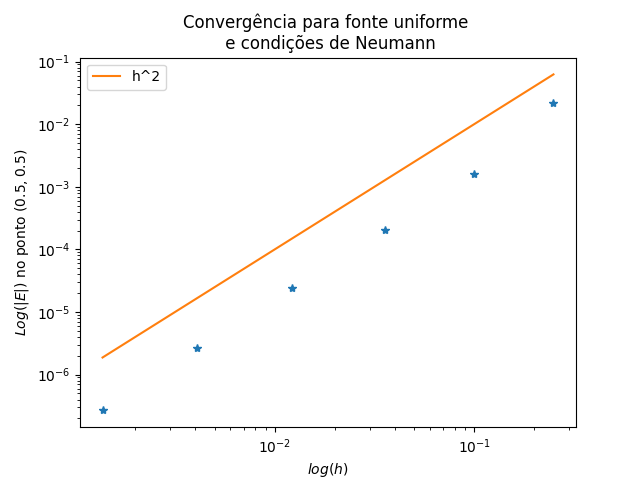
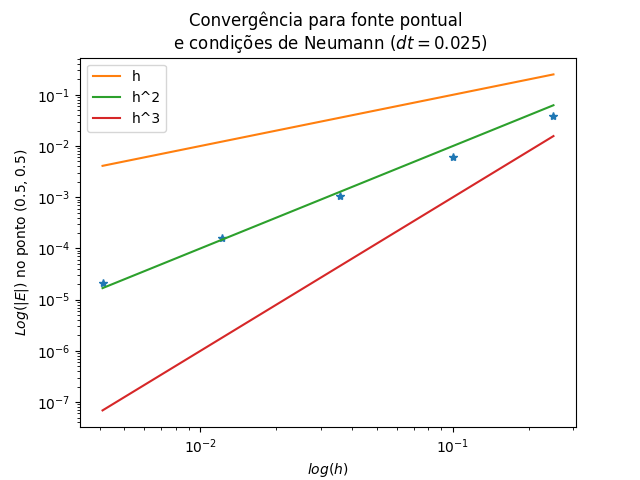
finished

diff --git a/Optimized/heat.py b/Optimized/heat.py
@@ -18,111 +18,25 @@ def heat_source_uniform(x,y):
 def g(t):
     return 2.0 if t < 0.25 else 0.0
 
-def heat_equation_uniform(nx, ny, Lx, Ly, time):
-    
-    Ix = eye(nx)
-    Iy = eye(ny)
-    Dx = kron(Iy, laplacian(nx))
-    Dy = kron(laplacian(ny), Ix)
-
-    dx, dy = Lx / (nx+1), Ly / (ny+1)  # Control volume 
-    alpha = 1.0
-    dt = 0.25 * min(dx**2, dy**2) / alpha  # Time step size (CFL condition)
-    T = time
-    Nt = int(T / dt)  # Number of time steps
-    A = eye(nx * ny) - dt * (Dx + Dy)
-
-    x = np.linspace(0, Lx, nx + 2)
-    y = np.linspace(0, Ly, ny + 2)
-    X, Y = np.meshgrid(x, y)
-    S = heat_source_uniform(X, Y)
-    S = S[1:-1, 1:-1].flatten()
-    Q = np.zeros((nx+2,ny+2))
-    q_new = np.zeros_like(Q)
-
-    for i in range(Nt):
-        q_flat = Q[1:-1, 1:-1].flatten()
-        # Solve for the new time step
-        q_flat_new = la.spsolve(A, q_flat + dt * S)
-        
-        # Reshape back to 2D array
-        q_new[1:-1, 1:-1] = q_flat_new.reshape((nx, ny))
-
-        # Apply Neumann boundary conditions (zero gradient)
-        q_new[0, :] = q_new[1, :]         # Bottom boundary
-        q_new[-1, :] = q_new[-2, :]       # Top boundary
-        q_new[:, 0] = q_new[:, 1]         # Left boundary
-        q_new[:, -1] = q_new[:, -2]       # Right boundary
-        
-        # Update q
-        Q[:, :] = q_new[:, :]
-    return X, Y, Q
-def heat_equation_delta(nx, ny, Lx, Ly, time):
-    
-    Ix = eye(nx)
-    Iy = eye(ny)
-    Dx = kron(Iy, laplacian(nx))
-    Dy = kron(laplacian(ny), Ix)
-
-    dx, dy = Lx / (nx+1), Ly / (ny+1)  # Control volume 
-    alpha = 1.0
-    dt = 0.25 * min(dx**2, dy**2) / alpha  # Time step size (CFL condition)
-    T = time
-    Nt = int(T / dt)  # Number of time steps
-    A = eye(nx * ny) - dt * (Dx + Dy)
-    xs, ys = 0.5, 0.5
-    i_s = int(xs / dx) + 1
-    j_s = int(ys / dy) + 1
-
-    x = np.linspace(0, Lx, nx + 2)
-    y = np.linspace(0, Ly, ny + 2)
-    X, Y = np.meshgrid(x, y)
-    Q = np.zeros((nx+2,ny+2))
-    q_new = np.zeros_like(Q)
-
-    for i in range(Nt):
-        q_flat = Q[1:-1, 1:-1].flatten()
-
-        S = np.zeros_like(q_flat)
-        t = i*dt
-        if t < 0.25:
-            index = (i_s - 1) * nx + (j_s - 1)
-            S[index] = g(t)
-        # Solve for the new time step
-        q_flat_new = la.spsolve(A, q_flat + dt * S)
-        
-        # Reshape back to 2D array
-        q_new[1:-1, 1:-1] = q_flat_new.reshape((nx, ny))
-
-        # Apply Neumann boundary conditions (zero gradient)
-        q_new[0, :] = q_new[1, :]         # Bottom boundary
-        q_new[-1, :] = q_new[-2, :]       # Top boundary
-        q_new[:, 0] = q_new[:, 1]         # Left boundary
-        q_new[:, -1] = q_new[:, -2]       # Right boundary
-        
-        # Update q
-        Q[:, :] = q_new[:, :]
-    return X, Y, Q
-
-
 def laplacian_Dirichlet(n, d, k):
     main_diag = -2 * np.ones(n) 
     main_diag[0] = -d**2/k
     main_diag[-1] = -d**2/k
     lower_diag =  np.ones(n-1)  
     upper_diag =  np.ones(n-1)  
-    upper_diag[0] = 0
-    lower_diag[-1] = 0
+    upper_diag[0] = 0.0
+    lower_diag[-1] = 0.0
+
     return diags([lower_diag, main_diag, upper_diag], [-1, 0, 1],shape=(n,n))/d**2
 
-def heat_equation_heterogeneous(nx, ny, Lx, Ly, time):
+def heat_equation_heterogeneous(nx, ny, Lx, Ly, time, dt):
     
     Ix = eye(nx+2)
     Iy = eye(ny+2)
    
     dx, dy = Lx / (nx+1), Ly / (ny+1)  # Control volume 
     alpha = 1.0
-    dt = 0.25 * min(dx**2, dy**2) / alpha  # Time step size (CFL condition)
+    # dt = 0.25 * min(dx**2, dy**2) / alpha  # Time step size (CFL condition)
     T = time
     Nt = int(T / dt)  # Number of time steps
 
@@ -131,59 +45,55 @@ def heat_equation_heterogeneous(nx, ny, Lx, Ly, time):
     
     Dx = kron(Iy, Laplacian_x)
     Dy = kron(Laplacian_y, Ix)
-    Ax = eye((nx+2)* (ny+2)) - dt * Dx
-    Ay = eye((nx+2)* (ny+2)) - dt * Dy
+    Ax = eye((nx+2)* (ny+2)) -  dt * Dx
+    Ay = eye((nx+2)* (ny+2)) -  dt * Dy
+    # A = eye((nx+2)* (ny+2)) - dt * (Dx + Dy)
   
     x = np.linspace(0, Lx, nx + 2)
     y = np.linspace(0, Ly, ny + 2)
     X, Y = np.meshgrid(x, y)
     S = heat_source_uniform(X, Y)
-    S[0, :] = 0
-    S[-1, :] = 0
-    S[:, 0] = 0
-    S[:, -1] = 0
     S = S.flatten()
-    
-    Q = np.zeros((nx+2,ny+2))
-    q_new = np.zeros_like(Q)
-
+    Q = np.zeros((nx+2)*(ny+2))
+    print(Nt)
+    Q[0::nx+2]  = - 1                                          # Right boundary
+    Q[nx+1::nx+2] = - 1                                        # Left boundary
+    Q[:nx+2]  = 1./ np.pi * np.sin(np.pi * x)                  # Bottom boundary
+    Q[-(nx+2):]  = 1./ (3 * np.pi) * np.sin(3 * np.pi * x) + 1 # Top boundary
     for i in range(Nt):
         
-        Q[0, :]  = -2                                           # Right boundary
-        Q[-1, :] = -2                                           # Left boundary
-        Q[:, 0]  = 1./ np.pi * np.sin(np.pi * x)                # Bottom boundary
-        Q[:, -1] = 1./ (3 * np.pi) * np.sin(3 * np.pi * x) + 2  # Top boundary
-
-        q_flat = Q.flatten()
-        
+        Q[0::nx+2]  = - 2                                          # Right boundary
+        Q[nx+1::nx+2] = - 2                                        # Left boundary
+        Q[:nx+2]  = 1./ np.pi * np.sin(np.pi * x)                  # Bottom boundary
+        Q[-(nx+2):]  = 1./ (3 * np.pi) * np.sin(3 * np.pi * x) + 2 # Top boundary
+        # Q = la.spsolve(A, Q +  dt * S )
         # Solve for the new time step
-        q_flat_new_aux = la.spsolve(Ax, q_flat + dt * S)
-        q_flat_new = la.spsolve(Ay, q_flat_new_aux + dt * S)
-        q_new = q_flat_new.reshape((nx+2, ny+2))
-        
-        Q[:, :] = q_new[:, :]
+        q_flat_new_aux = la.spsolve(Ax, Q + 0.5 * dt * S)
+        q_flat_new = la.spsolve(Ay, q_flat_new_aux + 0.5 * dt * S)
+
+        Q = q_flat_new
+
+    Q = Q.reshape((nx+2, ny+2))
     return X, Y, Q
 
 def laplacian_Neumann(n, d, dt):
     main_diag = -2 * np.ones(n) 
-    main_diag[0] =  - (2) *d**2/ dt # - d**2/ dt
-    main_diag[-1] = - (2) *d**2/ dt  #- d**2/ dt
+    main_diag[0] =  - 2.
+    main_diag[-1] = - 2. 
     lower_diag =  np.ones(n-1)  
     upper_diag =  np.ones(n-1)  
-    upper_diag[0] =  2 *d**2/ dt  #- d**2/ dt
-    lower_diag[-1] =  2 *d**2/ dt #- d**2/ dt
+    upper_diag[0] =  2.  
+    lower_diag[-1] =  2. 
     return diags([lower_diag, main_diag, upper_diag], [-1, 0, 1], shape=(n,n))/d**2
 
-def heat_equation_uniformNeumann(nx, ny, Lx, Ly, time):
+def heat_equation_uniformNeumann(nx, ny, Lx, Ly, time, dt):
     
     Ix = eye(nx+2)
     Iy = eye(ny+2)
    
     dx, dy = Lx / (nx+1), Ly / (ny+1)  # Control volume 
-    alpha = 1.0
-    dt = 0.25 * min(dx**2, dy**2) / alpha  # Time step size (CFL condition)
-    T = time
-    Nt = int(T / dt)  # Number of time steps
+
+    Nt = int(time / dt)  # Number of time steps
 
     Laplacian_x = laplacian_Neumann(nx + 2, dx, dt)
     Laplacian_y = laplacian_Neumann(ny + 2, dy, dt)
@@ -195,38 +105,36 @@ def heat_equation_uniformNeumann(nx, ny, Lx, Ly, time):
     Ax = eye((nx+2)* (ny+2)) - dt * Dx
     Ay = eye((nx+2)* (ny+2)) - dt * Dy
     A = eye((nx+2)* (ny+2)) - dt * (Dx + Dy)
-    
+    # print(eye((nx+2)* (ny+2)).toarray())
     x = np.linspace(0, Lx, nx + 2)
     y = np.linspace(0, Ly, ny + 2)
     X, Y = np.meshgrid(x, y)
     S = heat_source_uniform(X, Y)
-
+    
     S = S.flatten()    
     Q = np.zeros((nx+2)*(ny+2))
-    
-    for i in range(Nt):     
-        
-        # Solve for the new time step
-        # Fixed cell 
-        # Q[0] = 0.0   
 
+    print(dt, time, Nt)
+    for i in range(Nt):     
+        # Solve for the new time step
+        
         ### Using a coupled laplacian      
-        # Q_new = la.spsolve(A, Q + dt * S)
-        # Q = Q_new
+        Q = la.spsolve(A, Q + dt * S)
         ### Uncoupled Laplacian 
-        q_new_aux = la.spsolve(Ax, Q + dt / 2 * S)
-        Q = la.spsolve(Ay, q_new_aux + dt / 2 * S)
+        # q_new_aux = la.spsolve(Ax, Q + dt / 2 * S)
+        # Q = la.spsolve(Ay, q_new_aux + dt / 2 * S)
 
     Q = Q.reshape((nx+2, ny+2))
     return X, Y, Q
-def heat_equation_deltaNeumann(nx, ny, Lx, Ly, time):
+def heat_equation_deltaNeumann(nx, ny, Lx, Ly, time, dt):
     
     Ix = eye(nx+2)
     Iy = eye(ny+2)
    
     dx, dy = Lx / (nx+1), Ly / (ny+1)  # Control volume 
     alpha = 1.0
-    dt = 0.25 * min(dx**2, dy**2) / alpha  # Time step size (CFL condition)
+    # dt = 0.25 * min(dx**2, dy**2) / alpha  # Time step size 
+   
     T = time
     Nt = int(T / dt)  # Number of time steps
 
@@ -251,7 +159,7 @@ def heat_equation_deltaNeumann(nx, ny, Lx, Ly, time):
     xs, ys = 0.5, 0.5
     i_s = int(xs / dx) + 1
     j_s = int(ys / dy) + 1
-
+    
     for i in range(Nt):     
         
         # Solve for the new time step
@@ -264,53 +172,93 @@ def heat_equation_deltaNeumann(nx, ny, Lx, Ly, time):
             S[index] = g(t)
 
         ### Using a coupled laplacian      
-        # Q = la.spsolve(A, Q + dt * S)
+        Q = la.spsolve(A, Q + dt * S)
       
         # Q = Q_new
         ### Uncoupled Laplacian     
-        q_new_aux = la.spsolve(Ax, Q + dt / 2.0 * S)
-        S = np.zeros_like(Q)
-        t = i * dt
-        if t < 0.25:
-            index = (i_s - 1) * nx + (j_s - 1)
-            S[index] = g(t)
-        Q = la.spsolve(Ay, q_new_aux + dt / 2.0 * S)
+        # q_new_aux = la.spsolve(Ax, Q + dt / 2.0 * S)
+        # S = np.zeros_like(Q)
+        # t = i * dt
+        # if t < 0.25:
+        #     index = (i_s - 1) * nx + (j_s - 1)
+        #     S[index] = g(t)
+        # Q = la.spsolve(Ay, q_new_aux + dt / 2.0 * S)
         
     Q = Q.reshape((nx+2, ny+2))
     return X, Y, Q
 
 def spatialError(max_power, time_iterations, func):
-  n = 3**max_power
-  m = math.ceil(n/2)
-  total_time = 0.25*(1/(n+1))**2*time_iterations
-  X, Y, Q = func(n,n, 1.0, 1.0, total_time)
-  # print(Q[m, m], X[m, m])
-  refValue = Q[m, m]
-  erro = []
-  h = []
-  for i in range(1,max_power):
-    n = 3**i
+    # dt = 1./40.
+    dt = 5e-1
+    n = 3**max_power
     m = math.ceil(n/2)
-    h.append(1/(n+1))
-    total_time = 0.25*(1/(n+1))**2*time_iterations
-    X, Y, Q = func(n,n, 1.0, 1.0, total_time)
-    erro.append(np.abs(Q[m,m] - refValue))
-  return h, erro
+    total_time = dt*time_iterations
+    X, Y, Q = func(n, n, 1.0, 1.0, total_time, dt)
+    fig = plt.figure()
+    ax = fig.add_subplot(projection='3d')
+    ax.plot_surface(X,Y,Q)
+    plt.show()
+
+    # print(Q[m, m], X[m, m])
+    refValue = Q[m, m]
+    erro = []
+    h = []
+    for i in range(1,max_power):
+        n = 3**i
+        m = math.ceil(n/2)
+        h.append(1/(n+1))
+        # total_time = 0.25*(1/(n+1))**2*time_iterations
+        X, Y, Q = func(n,n, 1.0, 1.0, total_time, dt)
+        erro.append(np.abs(Q[m,m] - refValue))
+    return h, erro
+def temporalError(max_power, total_time, func):
+    dt_min = np.power(5., -max_power)
+    n = 18
+    m = math.ceil(n/2)
+    # total_time = dt*time_iterations
+    X, Y, Q = func(n, n, 1.0, 1.0, total_time, dt_min)
+    fig = plt.figure()
+    ax = fig.add_subplot(projection='3d')
+    ax.plot_surface(X,Y,Q)
+    plt.show()
+
+    # print(Q[m, m], X[m, m])
+    refValue = Q[m, m]
+    erro = []
+    h = []
+    for i in range(2, max_power):
+        dt = np.power(5., -i)
+        # total_time = dt * time_iterations
+        h.append(dt)
+        # total_time = 0.25*(1/(n+1))**2*time_iterations
+        X, Y, Q = func(n,n, 1.0, 1.0, total_time, dt)
+        erro.append(np.abs(Q[m,m] - refValue))
+    return h, erro
 
 nx = 81
 ny = 81
+dt = 1/(nx+1)**2
 Lx = 1.0
 Ly = 1.0
-# X, Y, Q = heat_equation_heterogeneous(nx, ny, Lx, Ly, 0.25)
+# X, Y, Q = heat_equation_heterogeneous(nx, ny, Lx, Ly, 0.25, dt)
+# fig = plt.figure()
+# ax = fig.add_subplot(projection='3d')
+# ax.plot_surface(X,Y,Q)
+# plt.show()
+
 # X1, Y1, Q1 = heat_equation_heterogeneous(nx, ny, Lx, Ly, 5.0)
-h, error = spatialError(7, 10, heat_equation_heterogeneous)
-plt.title("Convergência para fonte uniforme \n e condições de Dirichlet")
+h, error = temporalError(7, 0.1, heat_equation_deltaNeumann)
+plt.title("Convergência para fonte uniforme \n e condições de Dirichlet ($h = 0.05$)")
 plt.loglog(h, error, '*')
+plt.loglog(h, h, label=r"h")
 plt.loglog(h,np.power(h, 2), label=r"h^2")
-plt.xlabel(r"$log(h)$")
+# plt.loglog(h,np.power(h, 3), label=r"h^3")
+plt.xlabel(r"$log(dt)$")
 plt.ylabel(r"$Log(|E|)$ no ponto $(0.5,0.5)$")
 plt.legend()
+plt.grid()
 plt.show()
+
 # fig = plt.figure(figsize=plt.figaspect(0.5))
 # fig.suptitle("Distribuição de calor uniforme \n Condições de fronteira de Dirichlet")
 # # =============
